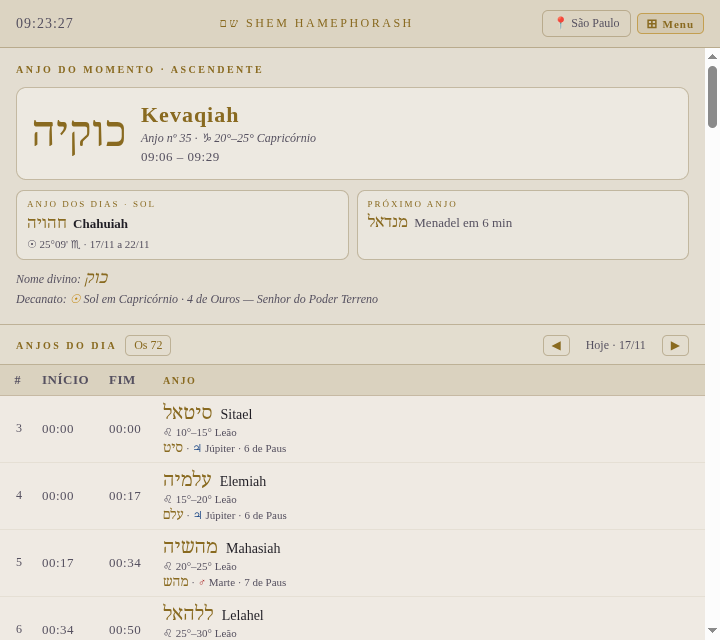
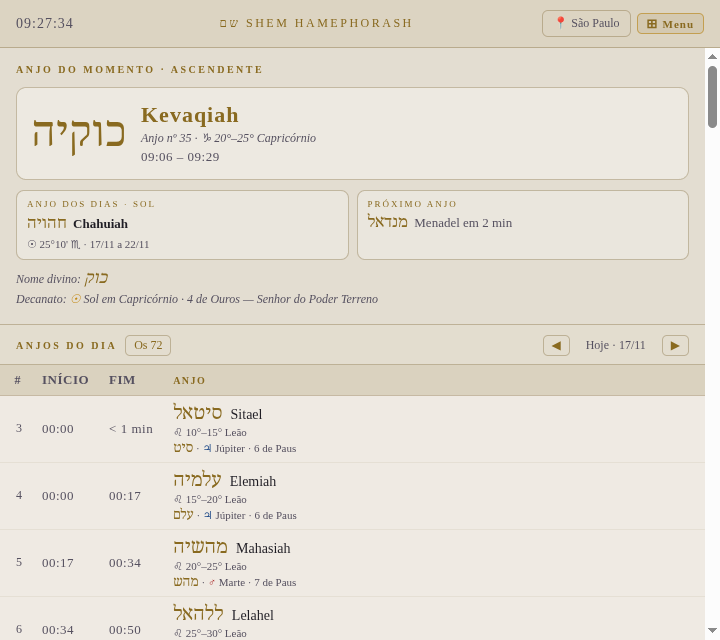
Shem: mostra "< 1 min" em períodos curtos na tabela do dia
Um anjo que saía do Ascendente segundos após a meia-noite aparecia
como 00:00 – 00:00, porque a tabela formata só hora e minuto.

diff --git a/android/www/shem/shem.js b/android/www/shem/shem.js
@@ -441,7 +441,7 @@ function renderTabela(periodos, agora, rolar) {
     tr.innerHTML = `
       <td class="col-num">${a.num}</td>
       <td class="col-inicio">${fmtHHMM(p.inicio)}</td>
-      <td class="col-fim">${fmtHHMM(p.fim)}</td>
+      <td class="col-fim">${p.fim - p.inicio < 60000 ? '&lt; 1 min' : fmtHHMM(p.fim)}</td>
       <td class="col-anjo">
         <div class="anjo-linha">${heb(a.hebraico)}<span class="tab-nome">${a.nome}</span></div>
         <div class="anjo-sub">${a.quinario}</div>

diff --git a/renderer/shem/shem.js b/renderer/shem/shem.js
@@ -441,7 +441,7 @@ function renderTabela(periodos, agora, rolar) {
     tr.innerHTML = `
       <td class="col-num">${a.num}</td>
       <td class="col-inicio">${fmtHHMM(p.inicio)}</td>
-      <td class="col-fim">${fmtHHMM(p.fim)}</td>
+      <td class="col-fim">${p.fim - p.inicio < 60000 ? '&lt; 1 min' : fmtHHMM(p.fim)}</td>
       <td class="col-anjo">
         <div class="anjo-linha">${heb(a.hebraico)}<span class="tab-nome">${a.nome}</span></div>
         <div class="anjo-sub">${a.quinario}</div>

diff --git a/android/www/shem/style.css b/android/www/shem/style.css
@@ -297,6 +297,7 @@ tbody td {
 
 .col-inicio, .col-fim {
   width: 54px;
+  white-space: nowrap;
   font-variant-numeric: tabular-nums;
   letter-spacing: 0.5px;
   color: var(--silver-d);

diff --git a/renderer/shem/style.css b/renderer/shem/style.css
@@ -297,6 +297,7 @@ tbody td {
 
 .col-inicio, .col-fim {
   width: 54px;
+  white-space: nowrap;
   font-variant-numeric: tabular-nums;
   letter-spacing: 0.5px;
   color: var(--silver-d);

diff --git a/docs/12-historico.md b/docs/12-historico.md
@@ -49,6 +49,9 @@ alarme a cada ~5 min.
   abaixo de 420 px de largura.
 - **Widget das Horas:** usava São Paulo fixo no código; agora segue a cidade do Horae. Os nomes
   dos planetas estavam sem acento.
+- **Shem:** um anjo que saía do Ascendente segundos depois da meia-noite aparecia como
+  "00:00 – 00:00". O cálculo estava certo; a tabela é que corta os segundos. Períodos com menos
+  de 1 minuto agora mostram "< 1 min" na coluna Fim.
 
 ## Novidades
 
